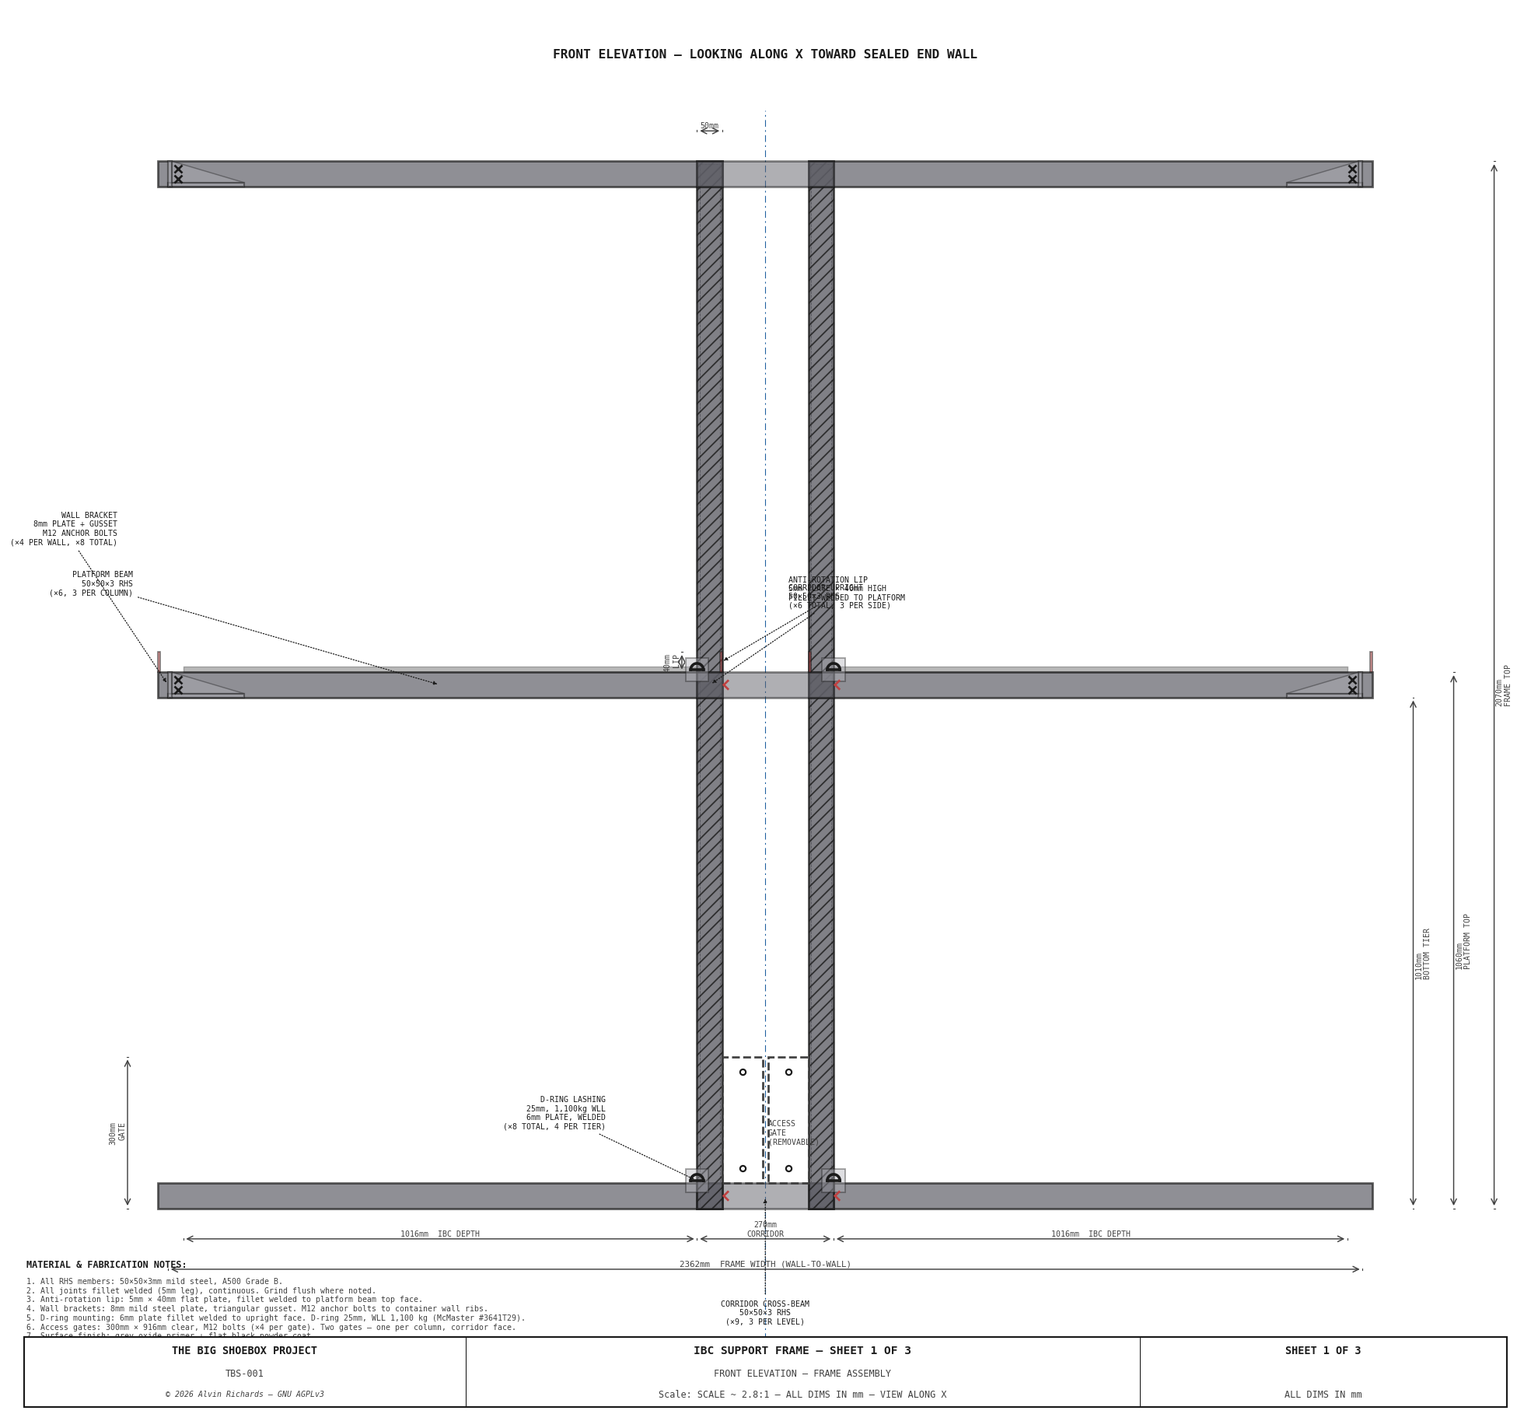
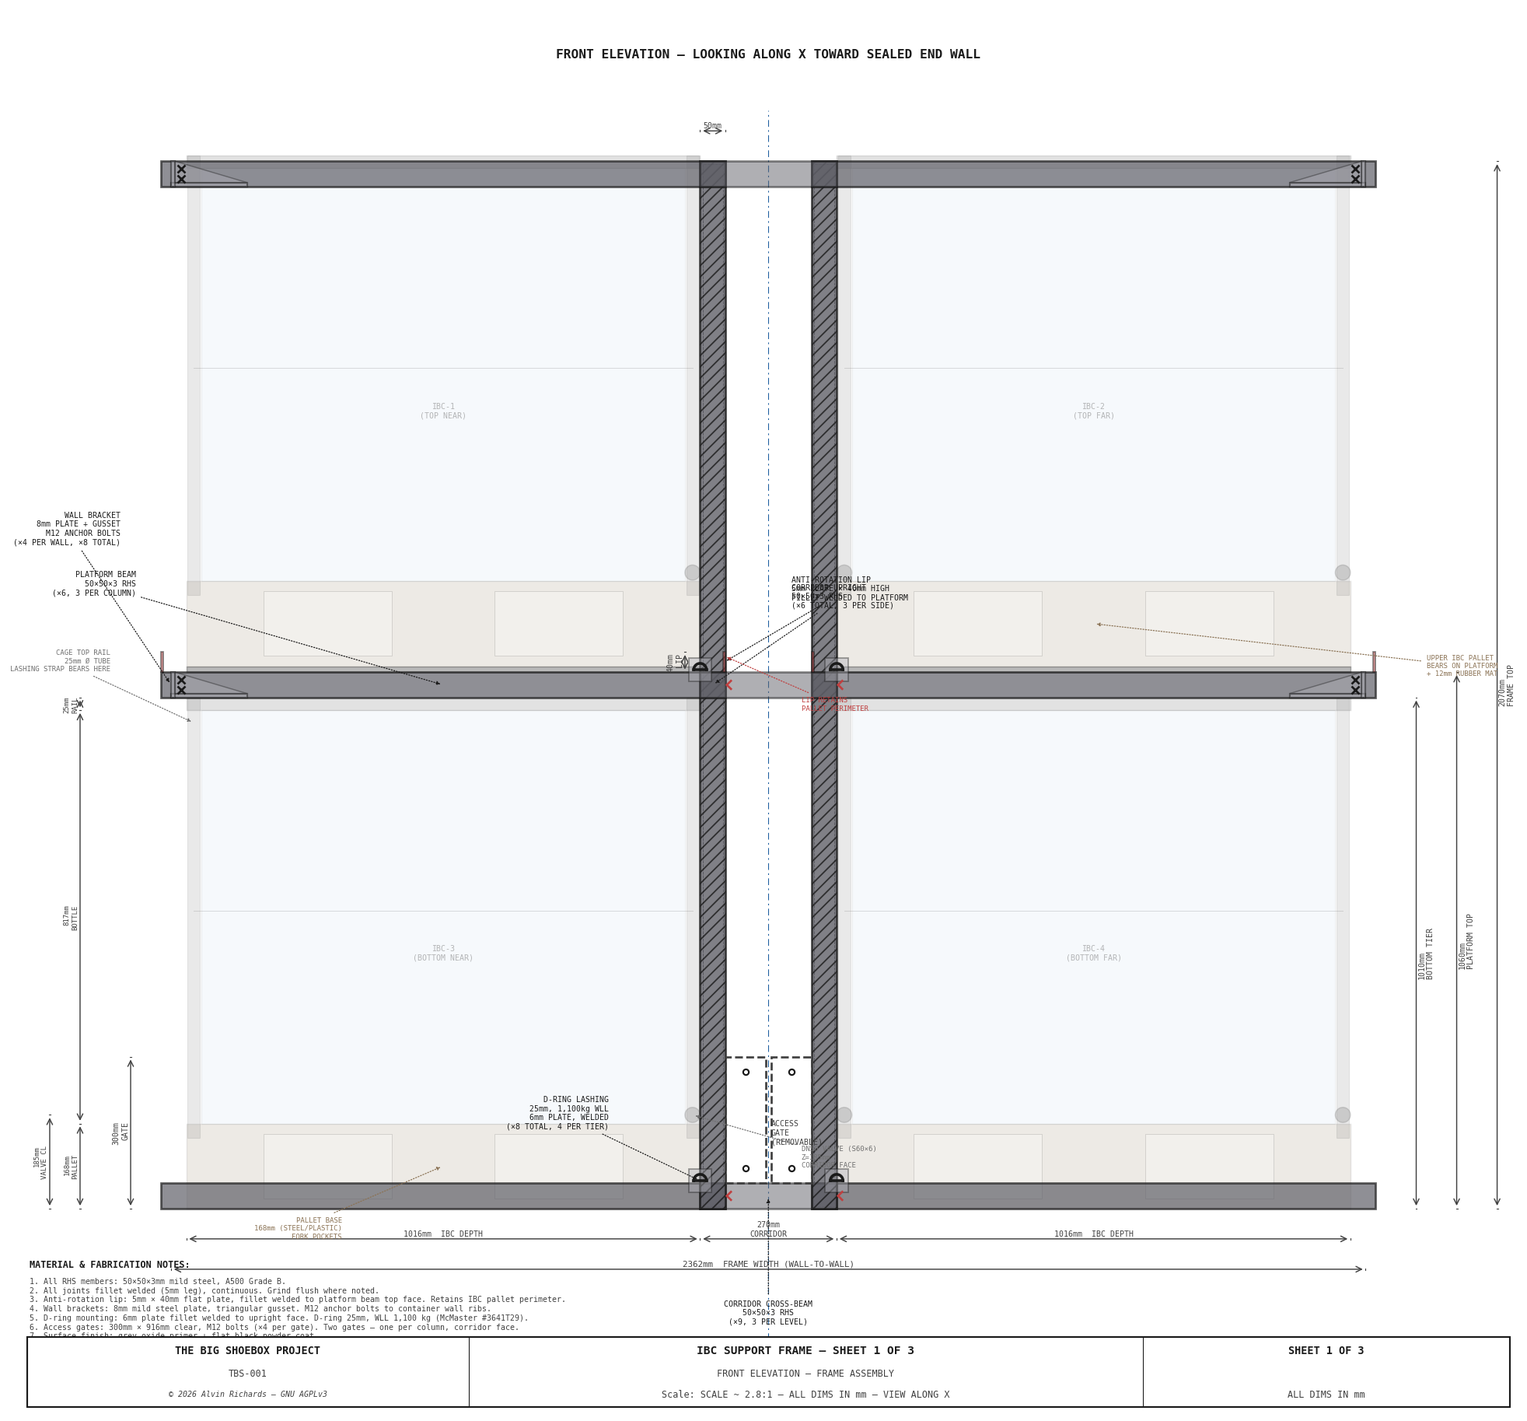
Add IBC cage/pallet anatomy to frame drawings and constants
The IBC dimensions (1,219x1,016x1,010mm) represent the complete tote
including pallet base, HDPE bottle, and galvanized wire cage. The frame
drawings now show ghost IBC outlines with all three components:

- Pallet base (168mm tall) with fork pocket slots — this is the actual
  bearing surface on the platform. Anti-rotation lip retains pallet edge.
- HDPE bottle (inset 30mm from pallet edge) — the liquid container
- Wire cage with 25mm OD corner tubes and top rail — highest point of
  the IBC, where lashing straps bear before hooking to D-rings
- DN50 butterfly valve position (185mm above IBC base, corridor face)

New IBC anatomy constants added to tbs_constants.py: IBC_PALLET_H,
IBC_CAGE_TUBE_D, IBC_CAGE_RAIL_W, IBC_CAGE_INSET, IBC_BOTTLE_INSET,
IBC_VALVE_Z. Available for all generators to import.

Sheet 1 adds pallet/bottle/rail height dimensions and valve centerline.
Sheet 2 shows anatomy in side elevation. Sheet 3 shows pallet footprint,
bottle inset, cage corner tubes, and pallet runners in plan view.

diff --git a/generate_ibc_frame_drawing.py b/generate_ibc_frame_drawing.py
@@ -34,6 +34,8 @@ from tbs_constants import (
     C_LEN, C_WID, C_HGT,
     IBC_COL_X, IBC_W, IBC_D, IBC_H_600, IBC_H_STK,
     BLUE_IBC_Y, IBC_FAR_Y,
+    IBC_PALLET_H, IBC_CAGE_TUBE_D, IBC_CAGE_RAIL_W,
+    IBC_CAGE_INSET, IBC_BOTTLE_INSET, IBC_VALVE_Z,
 )
 from tbs_title_block import title_block
 from tbs_drawing import draw_dim_h, draw_dim_v, leader, hatch_rect
@@ -96,6 +98,16 @@ BRACKET_L   = 150   # bracket leg length along Yd
 BRACKET_T   = 8     # bracket plate thickness
 BRACKET_BOLT_D = 12 # M12 anchor bolts
 
+# ── IBC anatomy derived heights ─────────────────────────────────────────────
+# (base constants imported from tbs_constants.py)
+IBC_BOTTLE_TOP = IBC_H_600 - IBC_CAGE_RAIL_W    # bottle top (~985mm)
+IBC_BOTTLE_BASE = IBC_PALLET_H                   # bottle starts at pallet top
+
+# Ghost IBC colors
+C_PALLET  = "#8B7355"    # pallet base (wood/steel brown)
+C_BOTTLE  = "#B8D4E8"    # HDPE bottle (translucent blue)
+C_CAGE    = "#707070"    # galvanized cage wire
+
 
 # ═══════════════════════════════════════════════════════════════════════════════
 # Helper — draw a filled RHS cross-section (cut view)
@@ -150,10 +162,136 @@ def _weld_tick(ax, x, y, sx, sy, *, side='right', size=8, zo=10):
 
 
 # ═══════════════════════════════════════════════════════════════════════════════
+# Ghost IBC helpers — show cage/pallet anatomy as context for frame interface
+# ═══════════════════════════════════════════════════════════════════════════════
+def _ghost_ibc_elev(ax, yd, z_base, width, sx, sy, *, label="", zo=2.5):
+    """Draw a ghost IBC in elevation view showing pallet, bottle, cage anatomy.
+
+    yd      — left edge Yd position
+    z_base  — bottom of pallet (Z=0 for bottom tier, Z=platform for top tier)
+    width   — IBC width in this view direction (IBC_D for front, IBC_W for side)
+    """
+    # Pallet base
+    ax.add_patch(Rectangle((sx(yd), sy(z_base)),
+                            sx(width), sy(IBC_PALLET_H),
+                            fc=C_PALLET, ec=C_CAGE, lw=0.8, alpha=0.15,
+                            zorder=zo))
+    # Fork pocket slots (2 openings on each side)
+    fork_w = width * 0.25
+    for fx_off in [width * 0.15, width * 0.60]:
+        ax.add_patch(Rectangle((sx(yd + fx_off), sy(z_base + 20)),
+                                sx(fork_w), sy(IBC_PALLET_H - 40),
+                                fc=BG, ec=C_CAGE, lw=0.4, alpha=0.3,
+                                zorder=zo + 0.1))
+
+    # HDPE bottle (inner container)
+    bottle_z = z_base + IBC_BOTTLE_BASE
+    bottle_top = z_base + IBC_BOTTLE_TOP
+    bottle_h = bottle_top - bottle_z
+    bi = IBC_BOTTLE_INSET
+    ax.add_patch(Rectangle((sx(yd + bi), sy(bottle_z)),
+                            sx(width - 2 * bi), sy(bottle_h),
+                            fc=C_BOTTLE, ec=C_CAGE, lw=0.5, alpha=0.12,
+                            zorder=zo + 0.2))
+
+    # Cage top rail
+    rail_z = z_base + IBC_BOTTLE_TOP
+    ax.add_patch(Rectangle((sx(yd), sy(rail_z)),
+                            sx(width), sy(IBC_CAGE_RAIL_W),
+                            fc=C_CAGE, ec=C_CAGE, lw=0.8, alpha=0.2,
+                            zorder=zo + 0.3))
+
+    # Cage corner tubes (shown as vertical strips at edges)
+    ci = IBC_CAGE_INSET
+    for tube_yd in [yd + ci, yd + width - ci]:
+        ax.add_patch(Rectangle((sx(tube_yd - IBC_CAGE_TUBE_D / 2),
+                                 sy(z_base + IBC_PALLET_H - 28)),
+                                sx(IBC_CAGE_TUBE_D),
+                                sy(IBC_H_600 - IBC_PALLET_H + 28),
+                                fc=C_CAGE, ec=C_CAGE, lw=0.6, alpha=0.15,
+                                zorder=zo + 0.3))
+
+    # Cage horizontal mid-rail (wire mesh represented by a single mid line)
+    mid_z = z_base + IBC_PALLET_H + (IBC_H_600 - IBC_PALLET_H) / 2
+    ax.plot([sx(yd + ci), sx(yd + width - ci)],
+            [sy(mid_z), sy(mid_z)],
+            color=C_CAGE, lw=0.5, alpha=0.25, zorder=zo + 0.2)
+
+    # Drain valve position (corridor-facing side — on the right edge for near
+    # column, left edge for far column; caller can adjust)
+    valve_z = z_base + IBC_VALVE_Z
+    # Small circle representing valve
+    ax.add_patch(Circle((sx(yd + width - IBC_CAGE_INSET), sy(valve_z)),
+                         sx(15), fc=C_CAGE, ec=C_CAGE, lw=0.8,
+                         alpha=0.25, zorder=zo + 0.4))
+
+    # Label
+    if label:
+        ax.text(sx(yd + width / 2), sy(z_base + IBC_H_600 / 2), label,
+                ha="center", va="center", fontsize=5.5, color=C_CAGE,
+                alpha=0.5, **FONT, zorder=zo + 0.5)
+
+
+def _ghost_ibc_elev_far(ax, yd, z_base, width, sx, sy, *, label="", zo=2.5):
+    """Ghost IBC for far column — drain valve on LEFT (corridor) side."""
+    _ghost_ibc_elev(ax, yd, z_base, width, sx, sy, label=label, zo=zo)
+    # Override valve position to left side
+    valve_z = z_base + IBC_VALVE_Z
+    # Remove the default right-side valve by drawing over it, then draw on left
+    ax.add_patch(Circle((sx(yd + IBC_CAGE_INSET), sy(valve_z)),
+                         sx(15), fc=C_CAGE, ec=C_CAGE, lw=0.8,
+                         alpha=0.25, zorder=zo + 0.4))
+
+
+def _ghost_ibc_plan(ax, x, yd, w, d, px, py, *, label="", zo=2.5):
+    """Draw a ghost IBC in plan view showing pallet footprint, cage tubes,
+    and bottle outline.
+
+    x, yd — bottom-left corner in plan coordinates
+    w     — width along X axis
+    d     — depth along Yd axis
+    """
+    # Pallet footprint
+    ax.add_patch(Rectangle((px(x), py(yd)), px(w), py(d),
+                            fc=C_PALLET, ec=C_CAGE, lw=0.8, alpha=0.08,
+                            zorder=zo))
+
+    # Bottle outline (inset from pallet)
+    bi = IBC_BOTTLE_INSET
+    ax.add_patch(Rectangle((px(x + bi), py(yd + bi)),
+                            px(w - 2 * bi), py(d - 2 * bi),
+                            fc=C_BOTTLE, ec=C_CAGE, lw=0.5, alpha=0.08,
+                            zorder=zo + 0.2))
+
+    # Cage corner tubes (4 circles at corners)
+    ci = IBC_CAGE_INSET
+    r = IBC_CAGE_TUBE_D / 2
+    for cx, cy in [(x + ci, yd + ci),
+                   (x + w - ci, yd + ci),
+                   (x + ci, yd + d - ci),
+                   (x + w - ci, yd + d - ci)]:
+        ax.add_patch(Circle((px(cx), py(cy)), px(r),
+                             fc=C_CAGE, ec=C_CAGE, lw=0.6,
+                             alpha=0.25, zorder=zo + 0.3))
+
+    # Pallet runner lines (2 runners along X, typical for US format)
+    for runner_yd in [yd + d * 0.25, yd + d * 0.75]:
+        ax.plot([px(x + 20), px(x + w - 20)],
+                [py(runner_yd), py(runner_yd)],
+                color=C_PALLET, lw=1.5, alpha=0.2, zorder=zo + 0.1)
+
+    if label:
+        ax.text(px(x + w / 2), py(yd + d / 2), label,
+                ha="center", va="center", fontsize=5.5, color=C_CAGE,
+                alpha=0.5, **FONT, zorder=zo + 0.5)
+
+
+# ═══════════════════════════════════════════════════════════════════════════════
 # SHEET 1 — Front Elevation
 #
 # Looking along X toward the sealed end wall.  Shows full container width
-# (Yd axis horizontal, Z axis vertical).  Frame members only.
+# (Yd axis horizontal, Z axis vertical).  Frame members and ghost IBC
+# outlines showing cage/pallet anatomy.
 #
 # Visible members:
 #   - 2 corridor uprights (front bay, cut section)
@@ -162,6 +300,7 @@ def _weld_tick(ax, x, y, sx, sy, *, side='right', size=8, zo=10):
 #   - Anti-rotation lip on platform
 #   - D-ring lashing points
 #   - Access gates on corridor face
+#   - Ghost IBC outlines showing pallet/cage/bottle interface
 #   - Behind: mid and back bay uprights shown dashed
 # ═══════════════════════════════════════════════════════════════════════════════
 def sheet1():
@@ -189,6 +328,19 @@ def sheet1():
             "FRONT ELEVATION — LOOKING ALONG X TOWARD SEALED END WALL",
             ha="center", va="bottom", fontsize=9, color=C_OUT,
             fontweight="bold", **FONT, zorder=15)
+
+    # ── Ghost IBC outlines (cage/pallet anatomy) ──────────────────────────────
+    # Bottom tier (Z=0)
+    plat_top = PLATFORM_Z + FRAME_RHS + MAT_T
+    _ghost_ibc_elev(ax, BLUE_IBC_Y, 0, IBC_D, sx, sy,
+                    label="IBC-3\n(BOTTOM NEAR)")
+    _ghost_ibc_elev_far(ax, IBC_FAR_Y, 0, IBC_D, sx, sy,
+                        label="IBC-4\n(BOTTOM FAR)")
+    # Top tier (on platform)
+    _ghost_ibc_elev(ax, BLUE_IBC_Y, plat_top, IBC_D, sx, sy,
+                    label="IBC-1\n(TOP NEAR)")
+    _ghost_ibc_elev_far(ax, IBC_FAR_Y, plat_top, IBC_D, sx, sy,
+                        label="IBC-2\n(TOP FAR)")
 
     # ── Base beams (Z=0, transverse — Yd direction) ─────────────────────────
     # Near column base beam: from near wall bracket to corridor
@@ -413,6 +565,22 @@ def sheet1():
                f"{LIP_H}mm\nLIP",
                offset=sx(5), fs=5.5, font=FONT)
 
+    # IBC anatomy dimensions (left side of near column)
+    anat_yd = BLUE_IBC_Y - FRAME_RHS - 160
+    draw_dim_v(ax, sx(anat_yd), sy(0), sy(IBC_PALLET_H),
+               f"{IBC_PALLET_H}mm\nPALLET",
+               offset=sx(5), fs=5, font=FONT)
+    draw_dim_v(ax, sx(anat_yd), sy(IBC_PALLET_H), sy(IBC_BOTTLE_TOP),
+               f"{IBC_BOTTLE_TOP - IBC_PALLET_H}mm\nBOTTLE",
+               offset=sx(5), fs=5, font=FONT)
+    draw_dim_v(ax, sx(anat_yd), sy(IBC_BOTTLE_TOP), sy(IBC_H_600),
+               f"{IBC_CAGE_RAIL_W}mm\nRAIL",
+               offset=sx(5), fs=5, font=FONT)
+    # Valve height
+    draw_dim_v(ax, sx(anat_yd - 60), sy(0), sy(IBC_VALVE_Z),
+               f"{IBC_VALVE_Z}mm\nVALVE CL",
+               offset=sx(5), fs=5, font=FONT)
+
     # ── Member labels ───────────────────────────────────────────────────────
     leader(ax, sx(NEAR_COL_R + FRAME_RHS / 2), sy(TOP_Z / 2),
            sx(NEAR_COL_R + 180), sy(TOP_Z / 2 + 150),
@@ -451,6 +619,40 @@ def sheet1():
            color=C_OUT, fs=5.5, ha="center", va="top",
            arrow_style="-|>", font=FONT)
 
+    # ── IBC anatomy labels ──────────────────────────────────────────────────
+    leader(ax, sx(BLUE_IBC_Y + IBC_D / 2), sy(IBC_PALLET_H / 2),
+           sx(BLUE_IBC_Y + IBC_D / 2 - 200), sy(IBC_PALLET_H / 2 - 100),
+           "PALLET BASE\n168mm (STEEL/PLASTIC)\nFORK POCKETS",
+           color=C_PALLET, fs=5, ha="right", va="top",
+           arrow_style="-|>", font=FONT)
+
+    leader(ax, sx(BLUE_IBC_Y + IBC_D - IBC_CAGE_INSET), sy(IBC_VALVE_Z),
+           sx(NEAR_COL_R + 200), sy(IBC_VALVE_Z - 60),
+           f"DN50 VALVE (S60×6)\nZ={IBC_VALVE_Z}mm\nCORRIDOR FACE",
+           color=C_CAGE, fs=5, ha="left", va="top",
+           arrow_style="-|>", font=FONT)
+
+    leader(ax, sx(BLUE_IBC_Y + IBC_CAGE_INSET), sy(IBC_H_600 - 50),
+           sx(BLUE_IBC_Y - 150), sy(IBC_H_600 + 50),
+           f"CAGE TOP RAIL\n{IBC_CAGE_TUBE_D}mm Ø TUBE\nLASHING STRAP BEARS HERE",
+           color=C_CAGE, fs=5, ha="right", va="bottom",
+           arrow_style="-|>", font=FONT)
+
+    leader(ax, sx(IBC_FAR_Y + IBC_D / 2),
+           sy(plat_top + IBC_PALLET_H / 2),
+           sx(IBC_FAR_Y + IBC_D + 150),
+           sy(plat_top + IBC_PALLET_H / 2 - 60),
+           "UPPER IBC PALLET\nBEARS ON PLATFORM\n+ 12mm RUBBER MAT",
+           color=C_PALLET, fs=5, ha="left", va="top",
+           arrow_style="-|>", font=FONT)
+
+    leader(ax, sx(POST_NEAR_YD + FRAME_RHS - LIP_T / 2),
+           sy(plat_top + 20),
+           sx(POST_NEAR_YD + 200), sy(plat_top - 60),
+           "LIP RETAINS\nPALLET PERIMETER",
+           color=C_WELD, fs=5, ha="left", va="top",
+           arrow_style="-|>", font=FONT)
+
     # ── Material note ───────────────────────────────────────────────────────
     mat_note_y = sy(Z_LO + 300)
     notes = [
@@ -458,13 +660,16 @@ def sheet1():
         "",
         f"1. All RHS members: 50×50×3mm mild steel, A500 Grade B.",
         f"2. All joints fillet welded (5mm leg), continuous. Grind flush where noted.",
-        f"3. Anti-rotation lip: 5mm × 40mm flat plate, fillet welded to platform beam top face.",
+        f"3. Anti-rotation lip: 5mm × 40mm flat plate, fillet welded to platform beam top face. Retains IBC pallet perimeter.",
         f"4. Wall brackets: 8mm mild steel plate, triangular gusset. M12 anchor bolts to container wall ribs.",
         f"5. D-ring mounting: 6mm plate fillet welded to upright face. D-ring 25mm, WLL 1,100 kg (McMaster #3641T29).",
         f"6. Access gates: 300mm × 916mm clear, M12 bolts (×4 per gate). Two gates — one per column, corridor face.",
         f"7. Surface finish: grey oxide primer + flat black powder coat.",
         f"8. Anti-slip rubber mat: 12mm thick, 1,016 × 1,219mm (one per column on platform).",
-        f"9. Total frame weight: ~90 kg.",
+        f"9. IBC anatomy: US 48\"×40\" composite tote — {IBC_PALLET_H}mm pallet base + HDPE bottle + galvanized wire cage.",
+        f"10. Cage top rail ({IBC_CAGE_TUBE_D}mm Ø tube) is highest point. Lashing straps bear on cage rail, hook to D-rings.",
+        f"11. IBC valve face (DN50, S60×6) points toward corridor. Valve CL at Z={IBC_VALVE_Z}mm above IBC base.",
+        f"12. Total frame weight: ~90 kg.",
     ]
     for i, line in enumerate(notes):
         bold = i == 0
@@ -528,6 +733,18 @@ def sheet2():
             "SIDE ELEVATION — LOOKING ALONG Yd FROM NEAR WALL",
             ha="center", va="bottom", fontsize=9, color=C_OUT,
             fontweight="bold", **FONT, zorder=15)
+
+    # ── Ghost IBC outlines (cage/pallet anatomy) ──────────────────────────────
+    # In side elevation, IBC width = IBC_W = 1,219mm along X.
+    # IBC is centered in frame depth: offset = (FRAME_FOOTPRINT_D - IBC_W)/2
+    ibc_x_offset = (FRAME_FOOTPRINT_D - IBC_W) / 2  # ~32.5mm
+    plat_top = PLATFORM_Z + FRAME_RHS + MAT_T
+    # Bottom tier
+    _ghost_ibc_elev(ax, ibc_x_offset, 0, IBC_W, sx, sy,
+                    label="BOTTOM TIER\n(IBC-3 OR IBC-4)")
+    # Top tier
+    _ghost_ibc_elev(ax, ibc_x_offset, plat_top, IBC_W, sx, sy,
+                    label="TOP TIER\n(IBC-1 OR IBC-2)")
 
     # ── Uprights (3 bays: front, mid, back) ─────────────────────────────────
     for fx in FX_POSTS:
@@ -776,13 +993,12 @@ def sheet3():
                 ha="center", va="center", fontsize=5.5, color=C_DIM,
                 **FONT, zorder=10, alpha=0.7)
 
-    # ── IBC footprint ghost outlines ────────────────────────────────────────
-    for mat_yd in [near_mat_yd, far_mat_yd]:
-        ibc_x = (FRAME_FOOTPRINT_D - IBC_W) / 2 + FX_FRONT  # centered in frame
-        ax.add_patch(Rectangle((px(ibc_x), py(mat_yd)),
-                                px(IBC_W), py(IBC_D),
-                                fc="none", ec=C_CL, lw=0.8, ls=(0, (5, 5)),
-                                alpha=0.4, zorder=7))
+    # ── IBC footprint ghost outlines (with cage/pallet anatomy) ──────────────
+    ibc_x = (FRAME_FOOTPRINT_D - IBC_W) / 2 + FX_FRONT  # centered in frame
+    _ghost_ibc_plan(ax, ibc_x, near_mat_yd, IBC_W, IBC_D, px, py,
+                    label="IBC PALLET\nFOOTPRINT")
+    _ghost_ibc_plan(ax, ibc_x, far_mat_yd, IBC_W, IBC_D, px, py,
+                    label="IBC PALLET\nFOOTPRINT")
 
     # ── Corridor opening ────────────────────────────────────────────────────
     corr_x1 = FX_FRONT + FRAME_RHS
@@ -965,9 +1181,10 @@ def sheet3():
         "2. Longitudinal beams (along X) at corridor edges are continuous — front to back.",
         "3. Transverse beams (along Yd) at each upright bay: cantilever from corridor to wall bracket.",
         "4. Wall brackets bolted to container wall corrugation ribs (M12 anchor bolts, 2 per bracket).",
-        "5. Anti-rotation lip (red outline): 5mm plate fillet welded to beam top face, full perimeter of each bay.",
-        f"6. Rubber mat: 12mm anti-slip, trimmed to IBC footprint ({IBC_D} × {IBC_W}mm).",
-        "7. Ghost outline (blue dashed): IBC cage footprint for reference.",
+        "5. Anti-rotation lip (red outline): 5mm plate fillet welded to beam top face. Retains IBC pallet perimeter.",
+        f"6. Rubber mat: 12mm anti-slip, trimmed to IBC pallet footprint ({IBC_D} × {IBC_W}mm).",
+        f"7. IBC ghost outline shows pallet footprint (brown), bottle inset (blue), cage corner tubes ({IBC_CAGE_TUBE_D}mm Ø, gray circles).",
+        "8. Pallet runners (2 per IBC) shown as brown lines — orient perpendicular to fork access direction.",
     ]
     for i, line in enumerate(notes):
         bold = i == 0

diff --git a/tbs_constants.py b/tbs_constants.py
@@ -187,10 +187,19 @@ PUMP_H_HI  = 600     # pump manifold top H (mm)
 #   BOTTOM Brown   (near)     Waste   (far)    ← receives water by gravity
 # Weight migrates top→bottom during session (stability improves).
 IBC_COL_X   = ZONE_R_START + 25   # = 4,674mm  [right-justified to end wall]
-IBC_W       = 1219   # IBC footprint width  (mm)
-IBC_D       = 1016   # IBC footprint depth  (mm)
-IBC_H_600   = 1010   # 600L IBC height (mm)
+IBC_W       = 1219   # IBC overall width  (mm) — US 48" pallet format, includes cage
+IBC_D       = 1016   # IBC overall depth  (mm) — US 40" pallet format, includes cage
+IBC_H_600   = 1010   # 640L IBC overall height (mm) — includes pallet base + cage + bottle
 IBC_H_STK   = 2020   # 2× stacked height (mm)
+
+# IBC cage/pallet anatomy (US 48"×40" composite tote)
+# Three parts: steel/plastic pallet base, HDPE blow-molded bottle, galvanized wire cage.
+IBC_PALLET_H    = 168    # pallet base height including feet/runners (mm)
+IBC_CAGE_TUBE_D = 25     # cage corner upright tube OD (mm)
+IBC_CAGE_RAIL_W = 25     # cage top rail tube OD (mm)
+IBC_CAGE_INSET  = 15     # cage tube center inset from pallet edge (mm)
+IBC_BOTTLE_INSET = 30    # bottle wall inset from pallet edge (mm)
+IBC_VALVE_Z     = 185    # DN50 butterfly valve CL above IBC base (mm)
 
 # Near column (Yd=30–1,046mm): Blue #1 on top, Brown on bottom
 BLUE_IBC_Y  = 30     # near column Yd start (mm) — pushed to near wall, 30mm clearance
